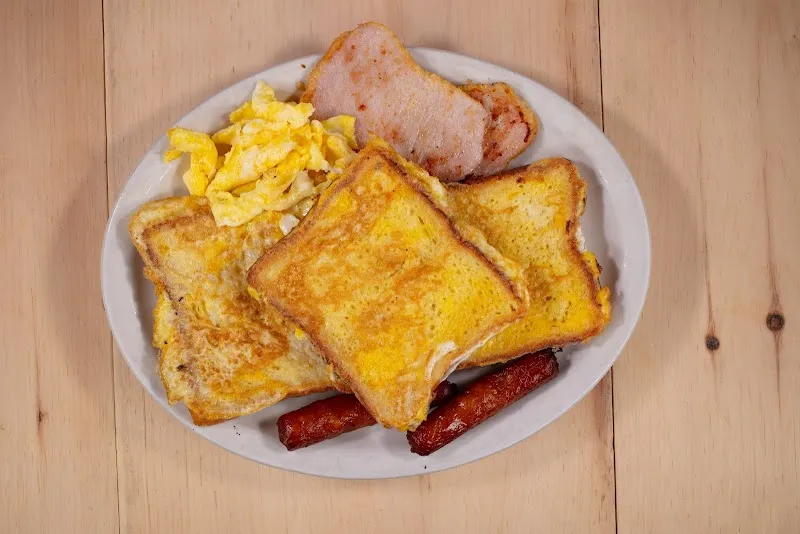
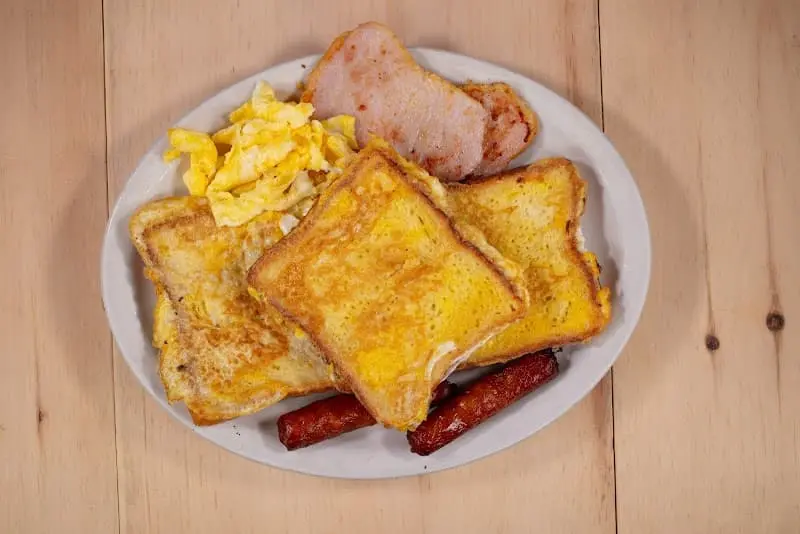
Optimize menu images to improve loading speed and reduce file size
Introduces a new script (scripts/optimize-menu-images.cjs) to resize and compress menu images, converts existing images to JPG and WebP formats, and updates client/src/constants.ts to reference the new .jpg extension for the french-toast-frenzy image.

Replit-Commit-Author: Agent
Replit-Commit-Session-Id: 26a768df-a901-4205-a461-b481f88eba67
Replit-Commit-Checkpoint-Type: intermediate_checkpoint
Replit-Commit-Event-Id: 36120fb2-6ac4-4b50-a055-1c542d85df77
Replit-Commit-Screenshot-Url: https://storage.googleapis.com/screenshot-production-us-central1/b384bb20-d210-4278-ab1c-30e5a205fcd0/26a768df-a901-4205-a461-b481f88eba67/knBv1Rd
Replit-Helium-Checkpoint-Created: true

Changed region(s): [[0.5625, 0.779, 0.5938, 0.809]]

diff --git a/client/src/constants.ts b/client/src/constants.ts
@@ -15,7 +15,7 @@ export const MENU_ITEMS: MenuItem[] = [
     description: "Three slices of golden French toast, 2 back bacon, 2 sausages, and 1 egg. Syrup, carbs, and chaos in the best way.",
     price: '$16.95',
     badge: 'FAN FAVE',
-    image: '/assets/french-toast-frenzy.jpeg'
+    image: '/assets/french-toast-frenzy.jpg'
   },
   {
     id: '3',
